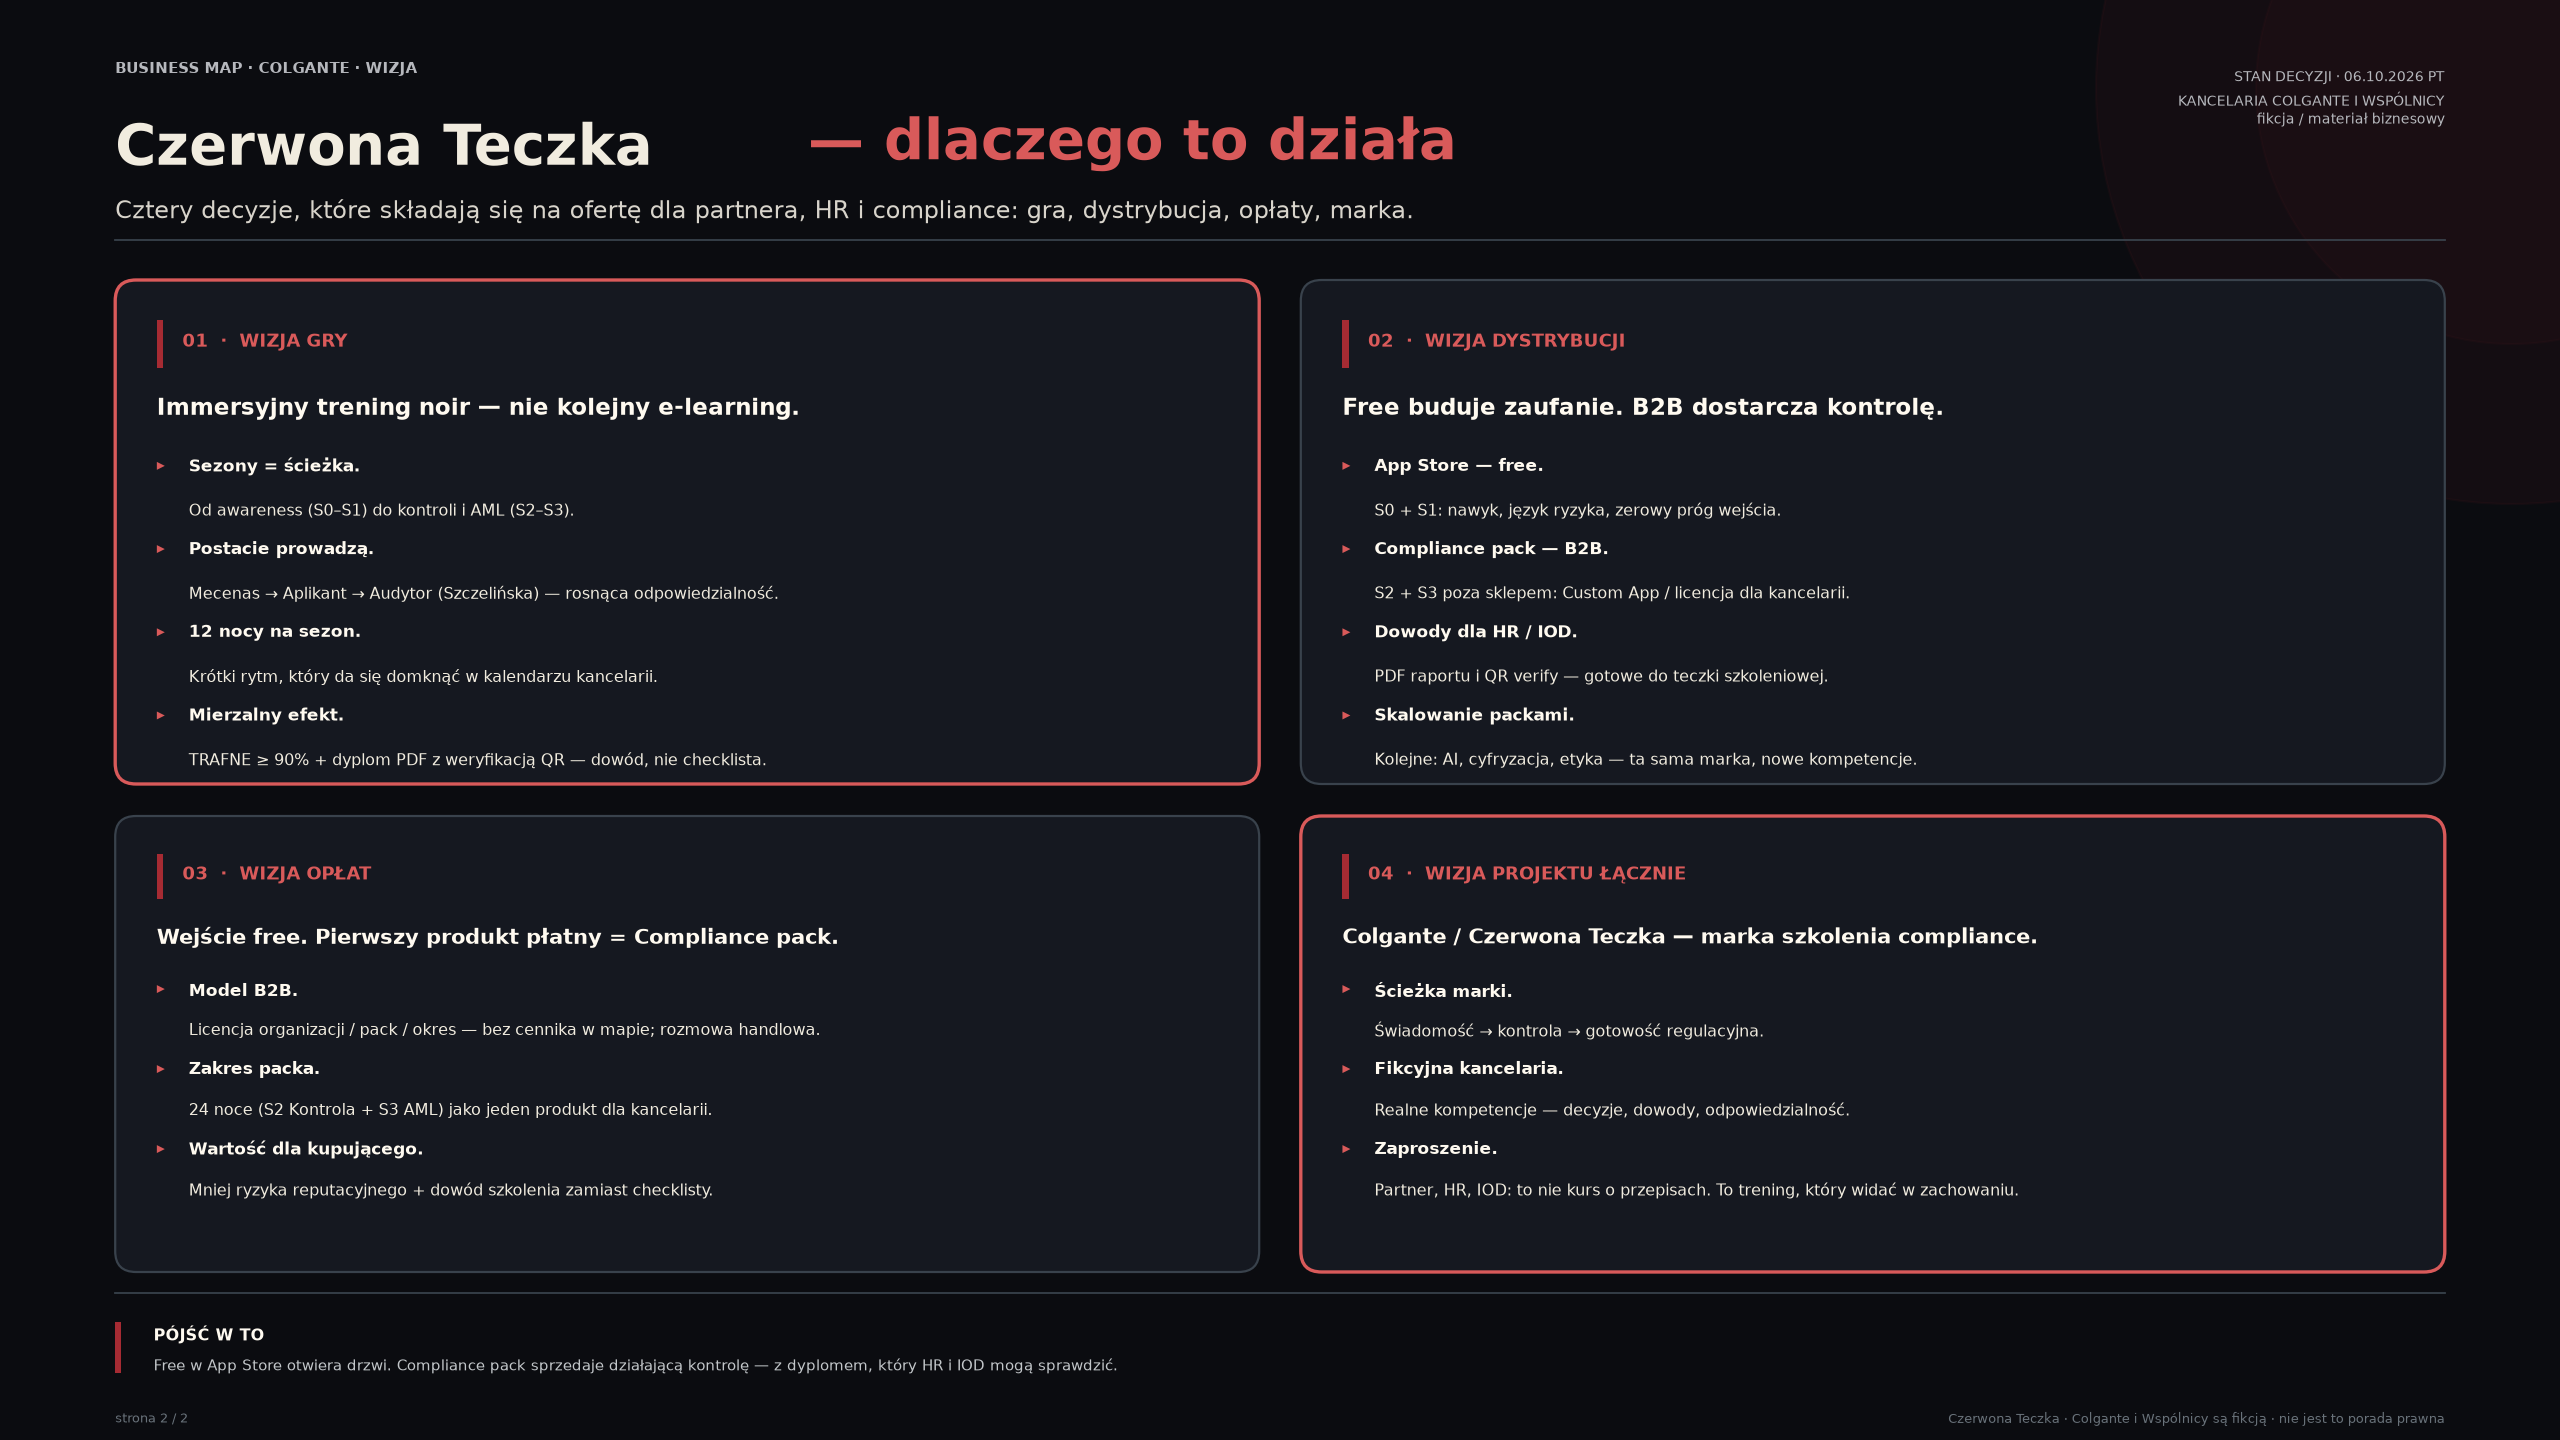
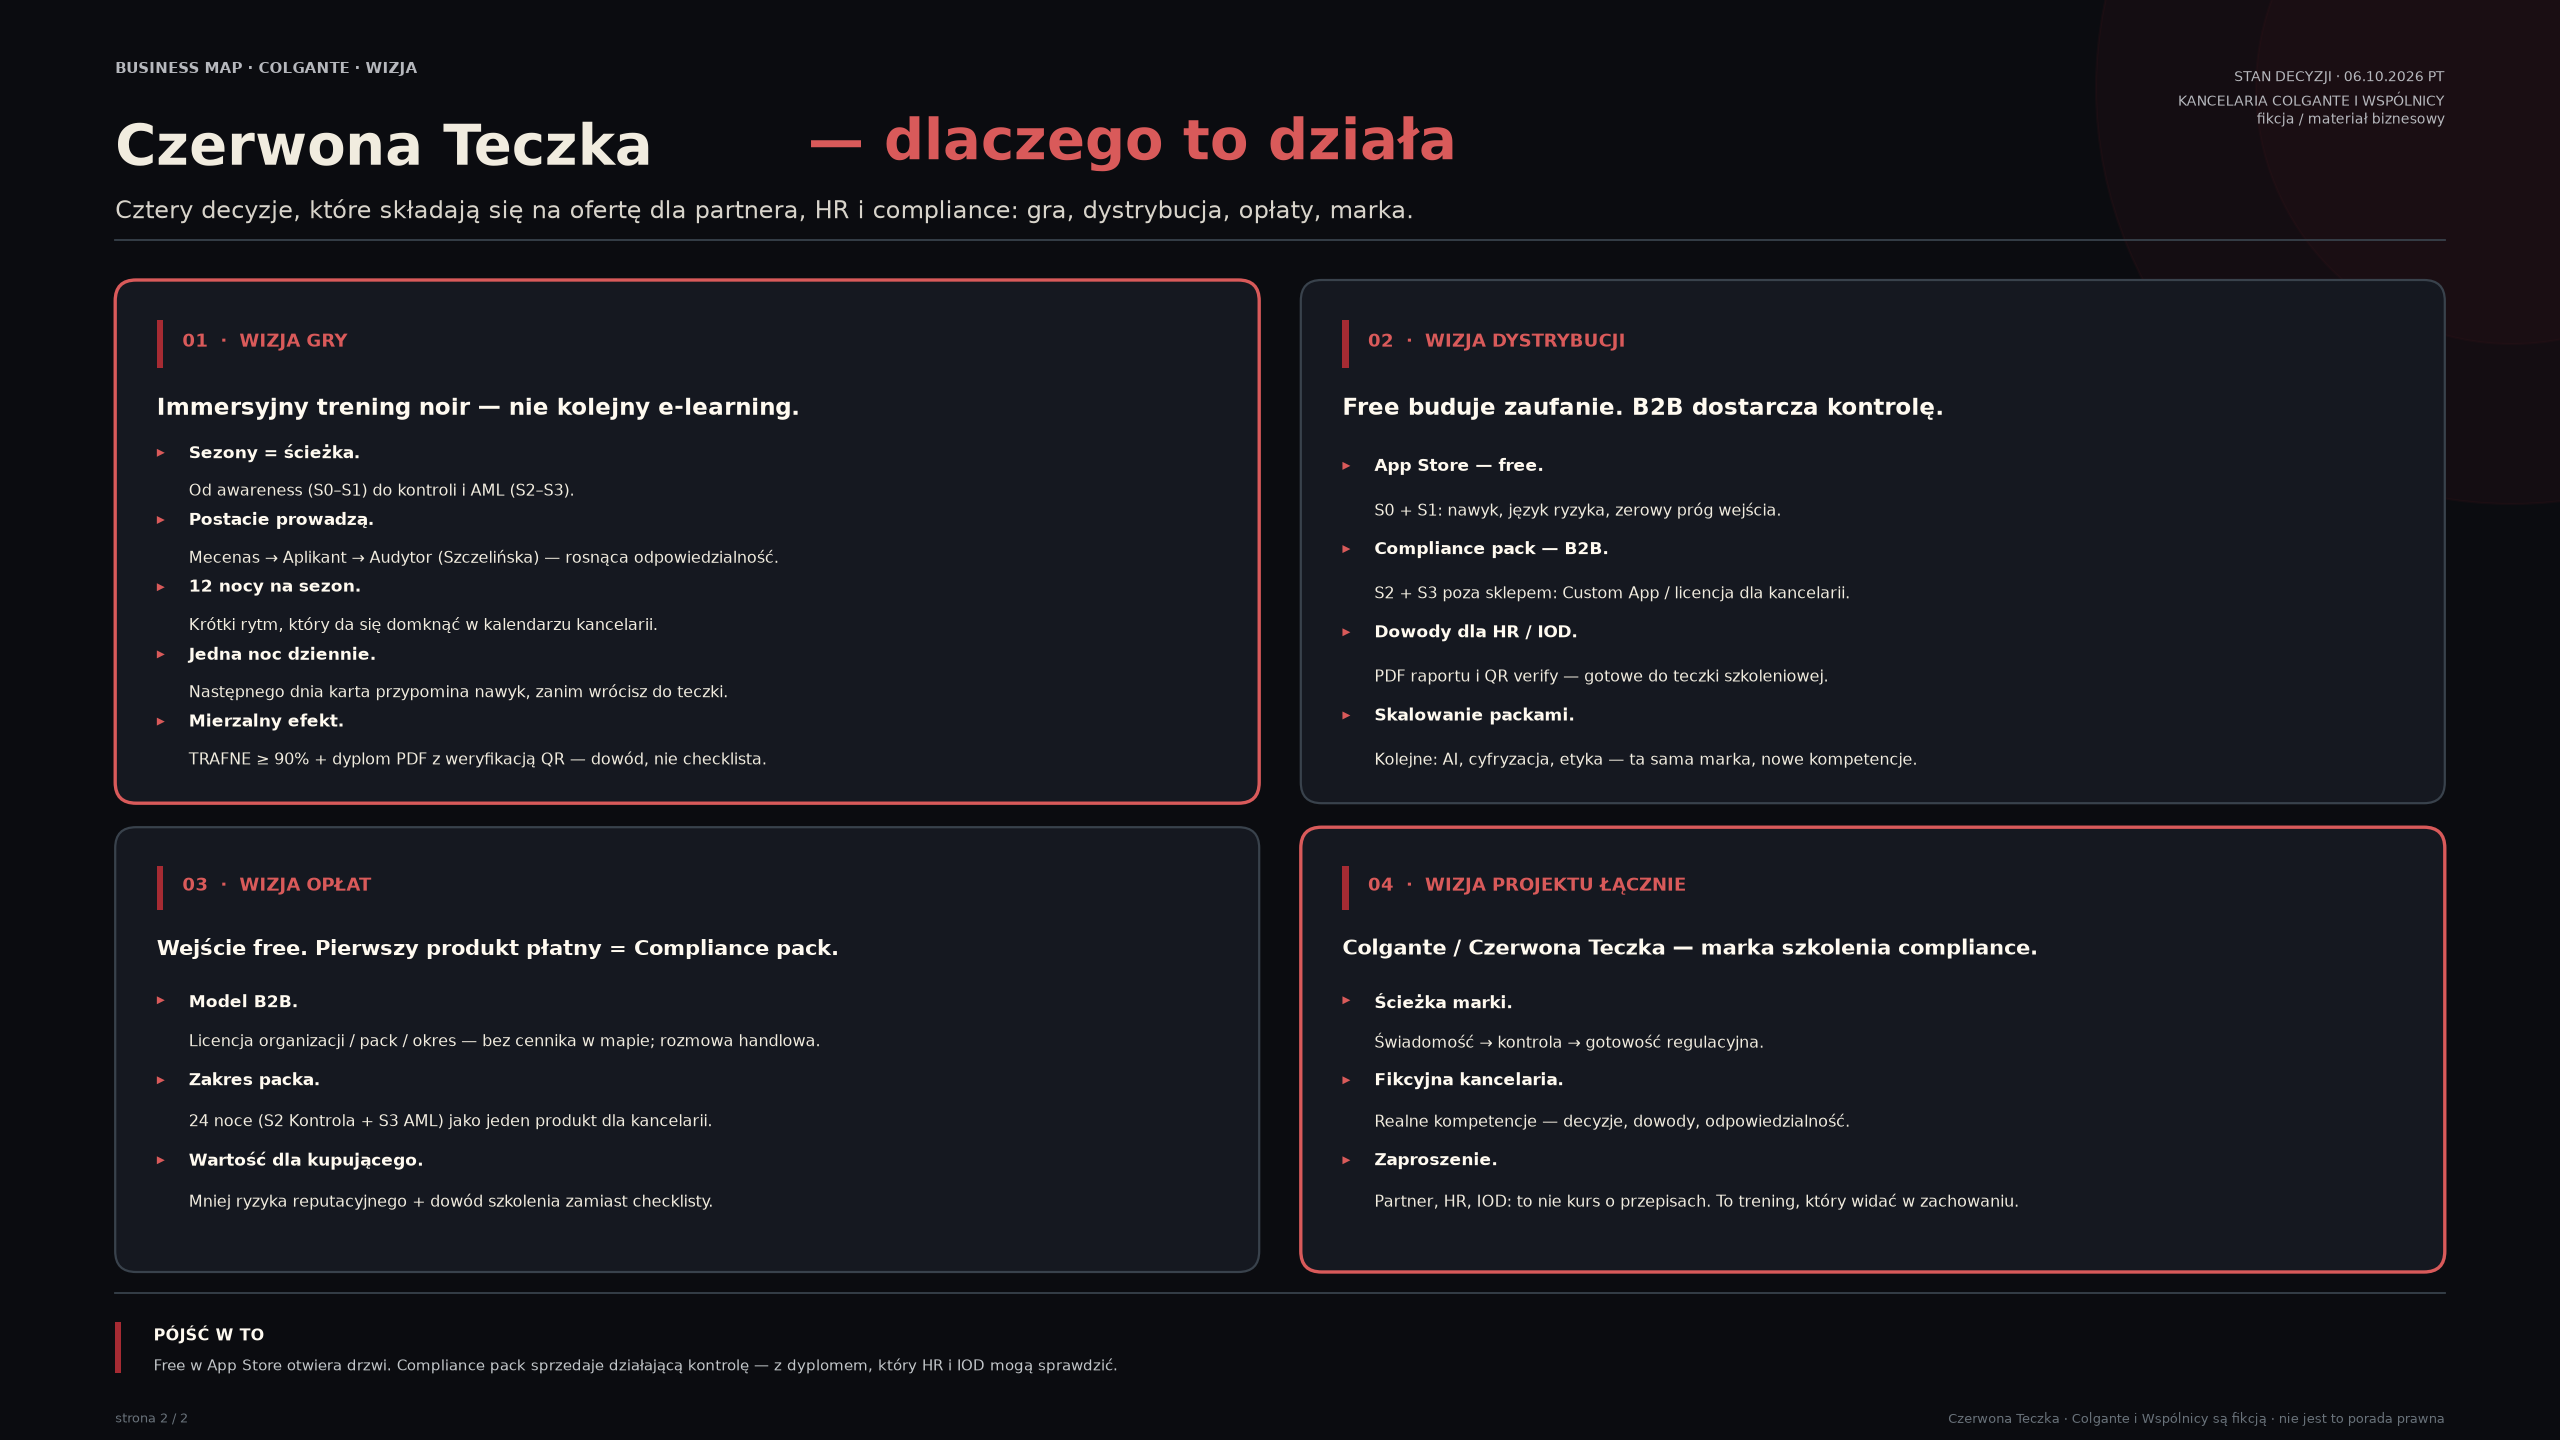
World: mapa page2 — jedna noc dziennie + karta nawyku.
Add the daily-rhythm bullet under 01 · Wizja gry; regenerate PDF/PNG/HTML.

Changed region(s): [[0.5, 0.5625, 0.9688, 0.8438], [0.0312, 0.3125, 0.5, 0.5625], [0.0625, 0.5938, 0.3125, 0.8438]]

diff --git a/World/mapa-sezonow-biznes.html b/World/mapa-sezonow-biznes.html
@@ -137,6 +137,7 @@
         <li><strong>Sezony = ścieżka.</strong><span>Od awareness (S0–S1) do kontroli i AML (S2–S3).</span></li>
         <li><strong>Postacie prowadzą.</strong><span>Mecenas → Aplikant → Audytor (Szczelińska) — rosnąca odpowiedzialność.</span></li>
         <li><strong>12 nocy na sezon.</strong><span>Krótki rytm, który da się domknąć w kalendarzu kancelarii.</span></li>
+        <li><strong>Jedna noc dziennie.</strong><span>Następnego dnia karta przypomina nawyk, zanim wrócisz do teczki.</span></li>
         <li><strong>Mierzalny efekt.</strong><span>TRAFNE ≥ 90% + dyplom PDF z weryfikacją QR — dowód, nie checklista.</span></li>
       </ul>
     </article>

diff --git a/World/render_mapa_sezonow.py b/World/render_mapa_sezonow.py
@@ -185,8 +185,8 @@ def draw_page2(ax):
     # top row y=4.05 h=3.20; bottom row y=1.05 h=2.80
     lw, rw = 7.15, 7.15
     lx, rx = .72, 8.13
-    top_y, top_h = 4.10, 3.15
-    bot_y, bot_h = 1.05, 2.85
+    top_y, top_h = 3.98, 3.27
+    bot_y, bot_h = 1.05, 2.78
 
     # --- 1. Wizja gry (top-left, accent) ---
     box(ax, lx, top_y, lw, top_h, card, red2, 1.5, .13)
@@ -198,14 +198,16 @@ def draw_page2(ax):
         ('Sezony = ścieżka.', 'Od awareness (S0–S1) do kontroli i AML (S2–S3).'),
         ('Postacie prowadzą.', 'Mecenas → Aplikant → Audytor (Szczelińska) — rosnąca odpowiedzialność.'),
         ('12 nocy na sezon.', 'Krótki rytm, który da się domknąć w kalendarzu kancelarii.'),
+        ('Jedna noc dziennie.', 'Następnego dnia karta przypomina nawyk, zanim wrócisz do teczki.'),
         ('Mierzalny efekt.', 'TRAFNE ≥ 90% + dyplom PDF z weryfikacją QR — dowód, nie checklista.'),
     ]
-    gy = top_y + top_h - 1.10
+    # Five bullets: start a touch higher and step tighter so the block clears the card edge.
+    gy = top_y + top_h - 1.02
     for head, body in g_items:
-        txt(ax, lx + .26, gy, '▸', 7.4, red2, 'bold')
-        txt(ax, lx + .46, gy, head, 7.8, white, 'bold')
-        txt(ax, lx + .46, gy - .28, body, 7.35, cream, linespacing=1.2)
-        gy -= 0.52
+        txt(ax, lx + .26, gy, '▸', 7.2, red2, 'bold')
+        txt(ax, lx + .46, gy, head, 7.5, white, 'bold')
+        txt(ax, lx + .46, gy - .24, body, 7.05, cream, linespacing=1.15)
+        gy -= 0.42
 
     # --- 2. Wizja dystrybucji (top-right) ---
     box(ax, rx, top_y, rw, top_h, card, line, 1, .13)

diff --git a/World/mapa-sezonow-biznes.md b/World/mapa-sezonow-biznes.md
@@ -8,7 +8,7 @@ Dwustronicowa mapa PL dla rozmowy B2B (16 × 9, ciemny noir).
 - **B2B · Compliance pack:** S2 Kontrola + S3 AML, razem 24 noce. Rola: Audytor Sylwia Szczelińska; pierwszy produkt komercyjny dla kancelarii.
 - **Później / roadmapa:** S4 AI deployer, S5 Cyfryzacja, S6 Etyka / ustrój — wariant roboczy, jeszcze nie sprzedajemy jako packów.
 
-**Strona 2 — wizja:** cztery bloki dla partnera / HR / compliance — wizja gry, dystrybucji, opłat i projektu łącznie (immersyjny trening, free→B2B, model licencji, marka Colgante).
+**Strona 2 — wizja:** cztery bloki dla partnera / HR / compliance — wizja gry, dystrybucji, opłat i projektu łącznie (immersyjny trening, jedna noc dziennie z kartą nawyku, free→B2B, model licencji, marka Colgante).
 
 ## Kontrakt layoutu
 
